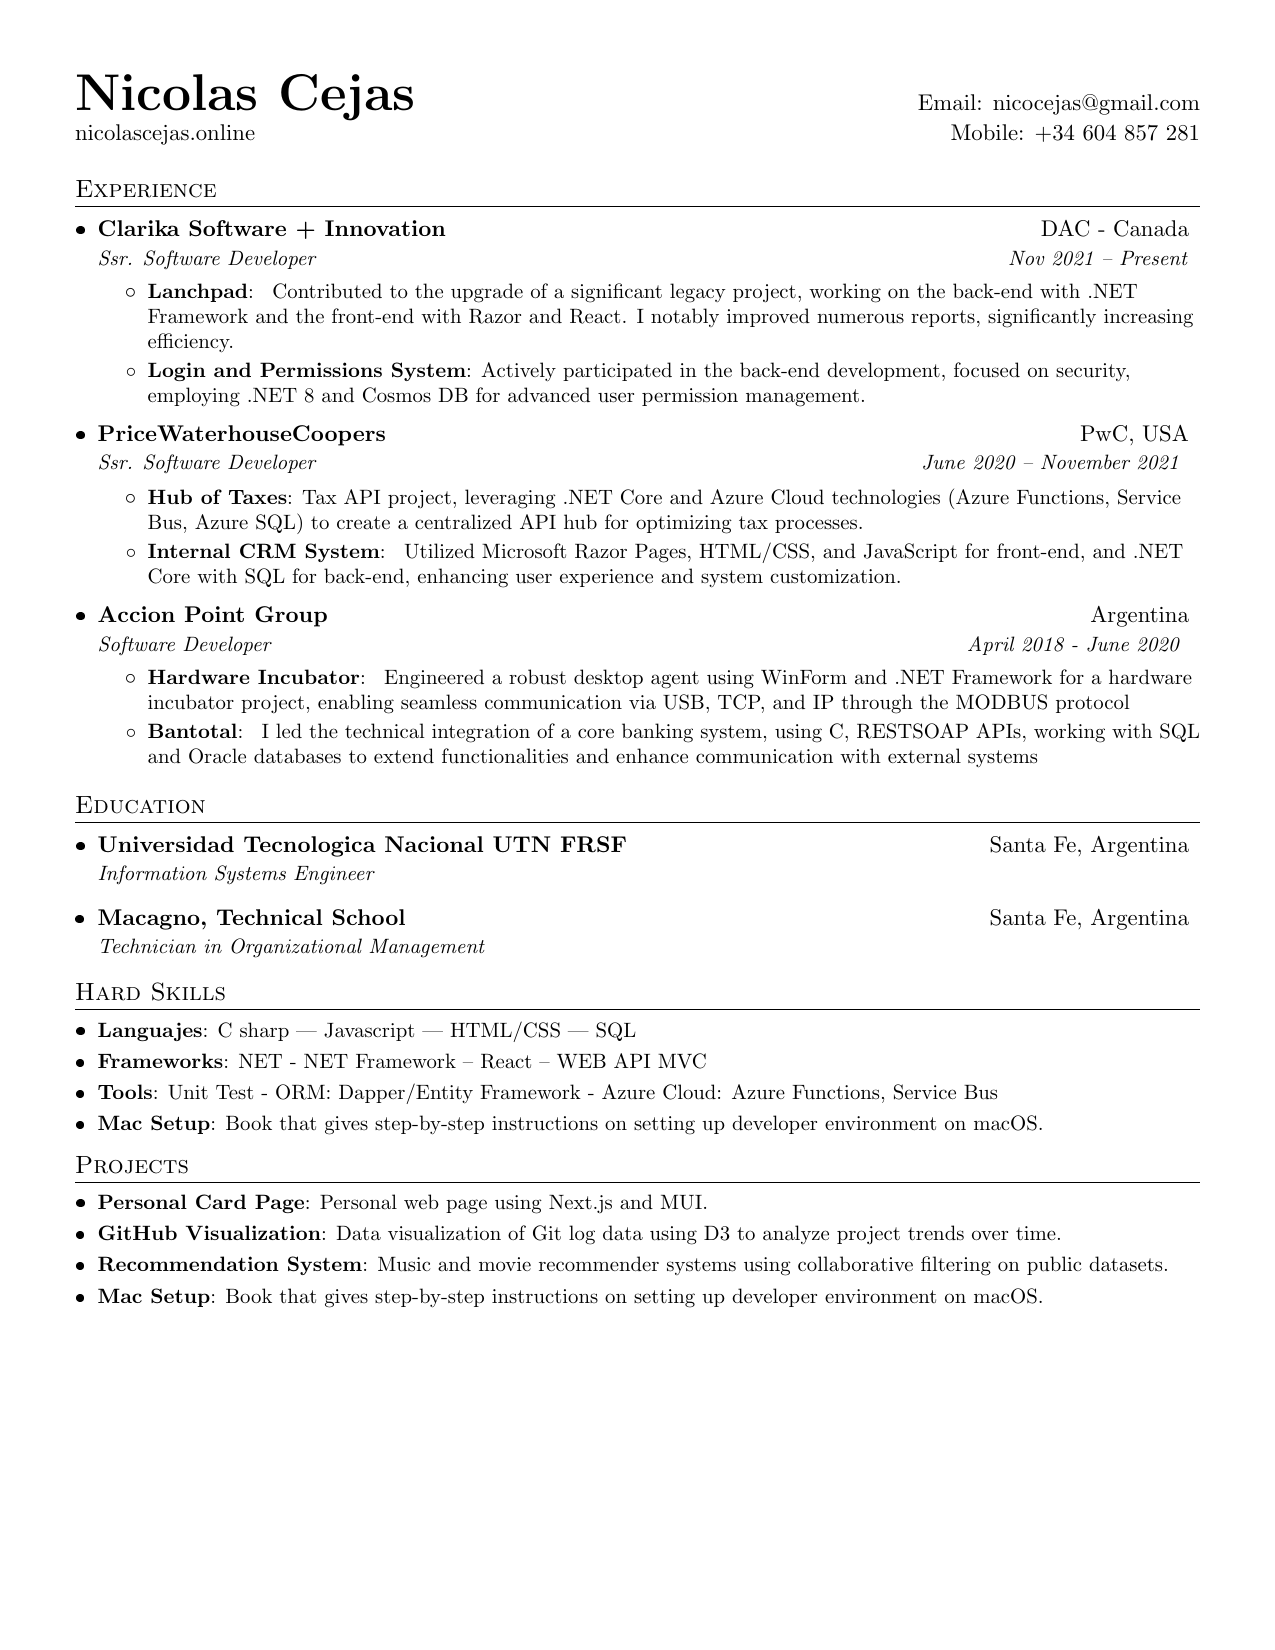
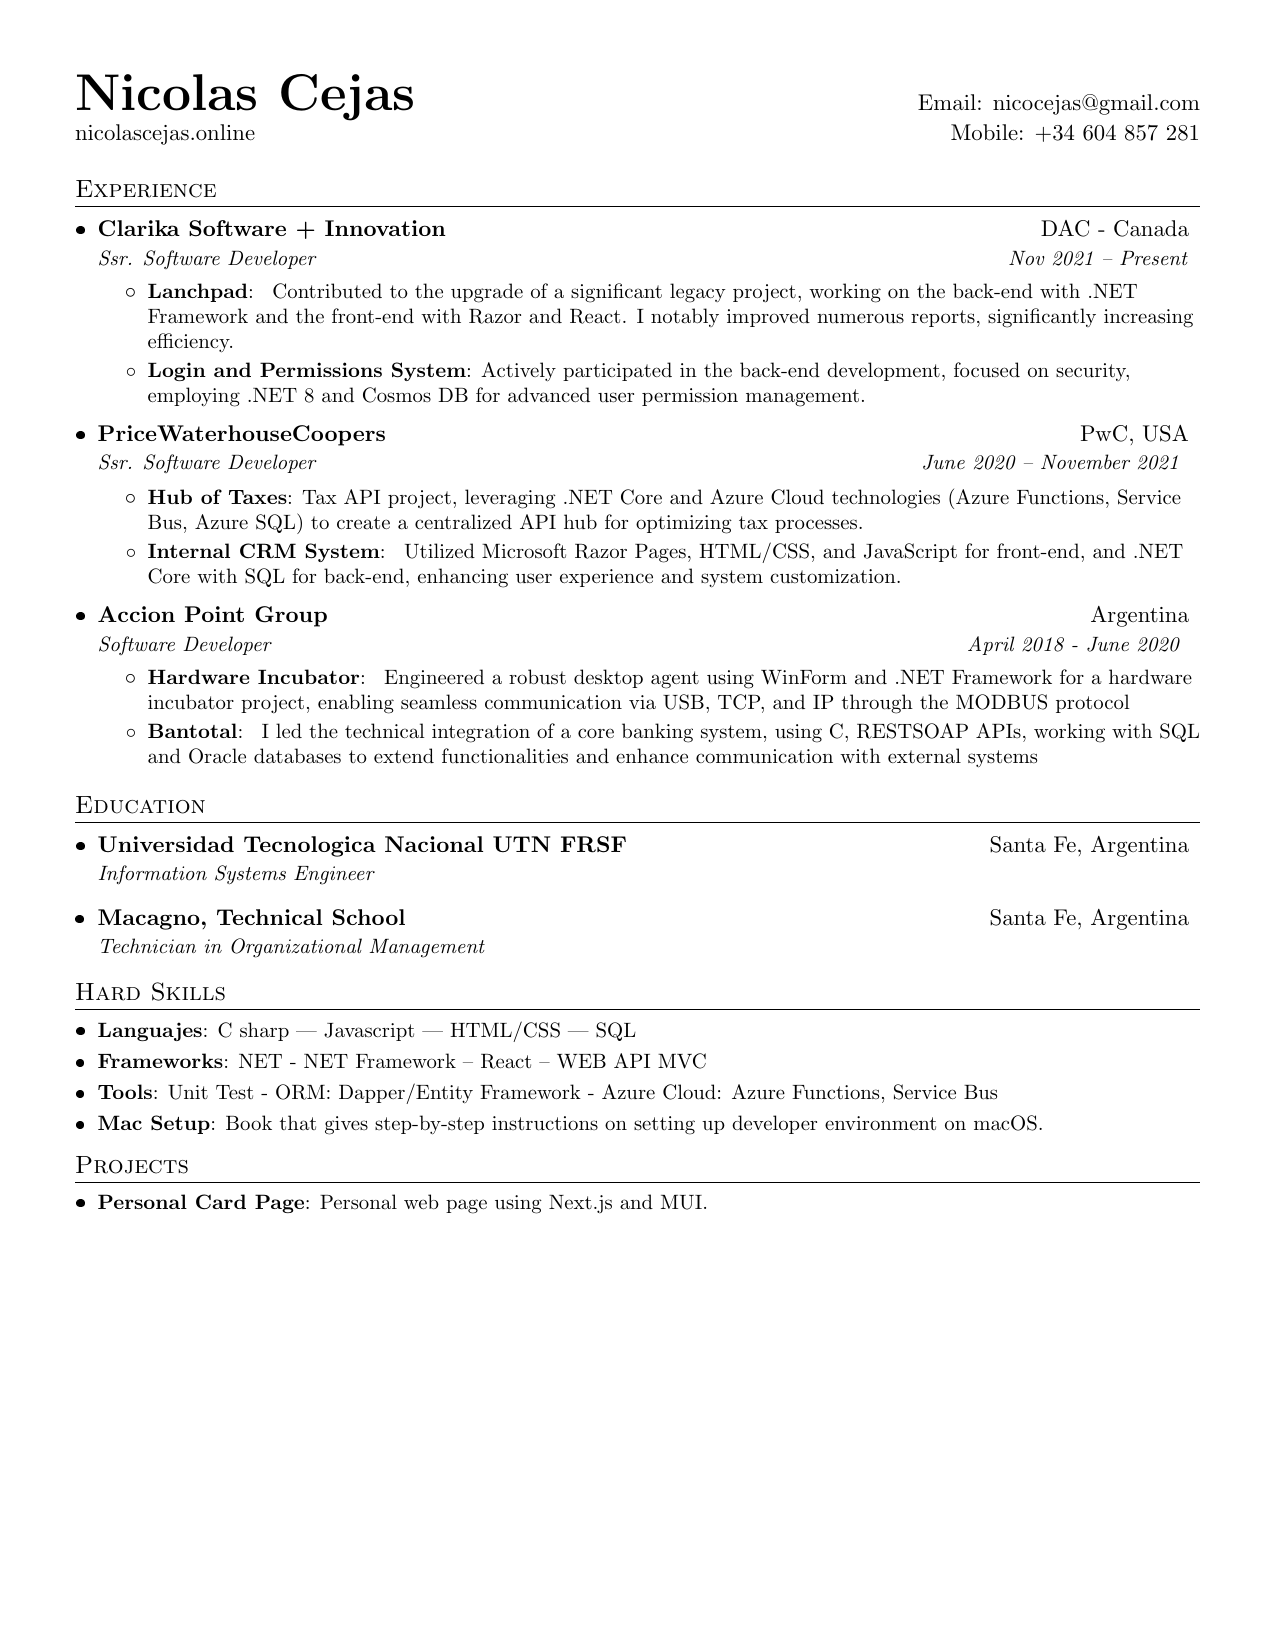
update resume

Changed region(s): [[0.0612, 0.7418, 0.8259, 0.8036], [0.8565, 0.7418, 0.8871, 0.7727]]

diff --git a/nicolas_cejas_resume.tex b/nicolas_cejas_resume.tex
@@ -194,12 +194,6 @@ and system customization.}
   \resumeSubHeadingListStart
     \resumeSubItem{Personal Card Page}
       {Personal web page using Next.js and MUI.}
-    \resumeSubItem{GitHub Visualization}
-      {Data visualization of Git log data using D3 to analyze project trends over time.}
-    \resumeSubItem{Recommendation System}
-      {Music and movie recommender systems using collaborative filtering on public datasets.}
-    \resumeSubItem{Mac Setup}
-      {Book that gives step-by-step instructions on setting up developer environment on macOS.}
   \resumeSubHeadingListEnd
   
 \end{document}
